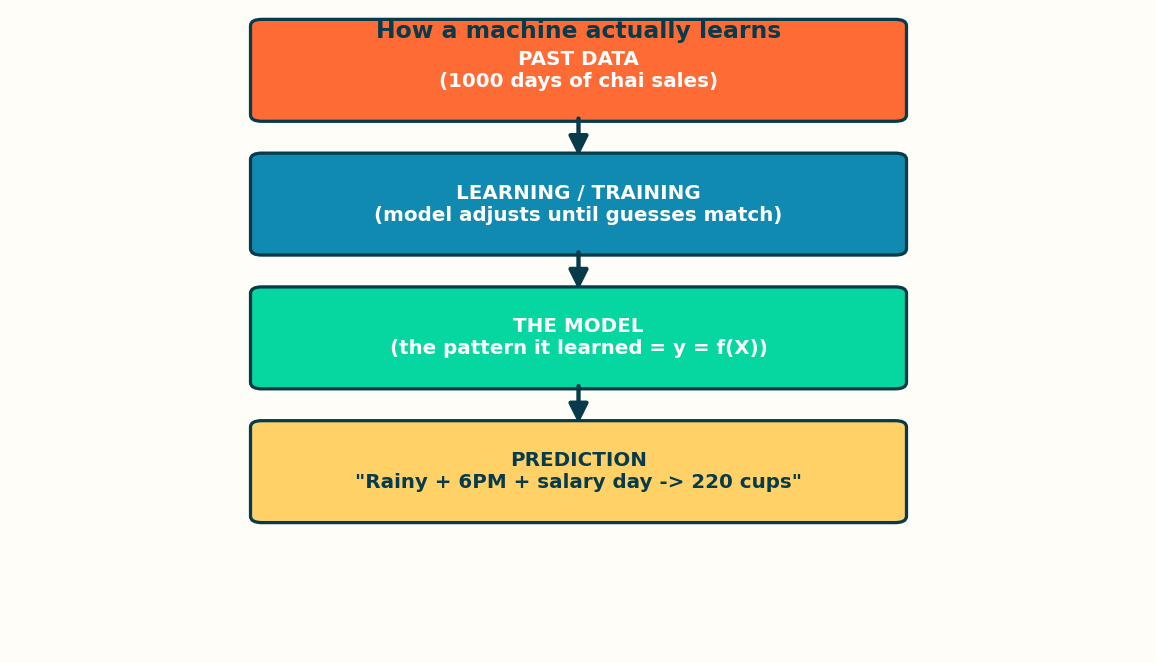
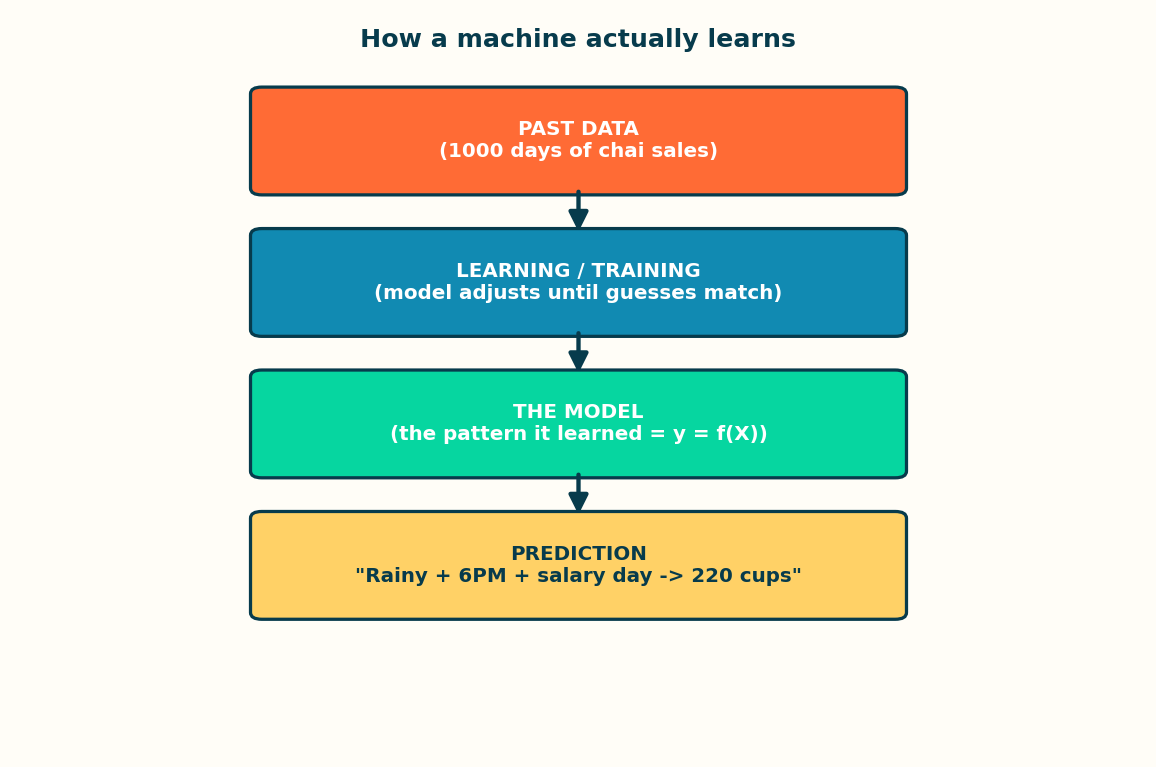
fix diagram alignment: no overlapping boxes, title spacing corrected

Changed region(s): [[0.1869, 0.0, 0.8097, 0.8145]]

diff --git a/images/_generate_day1_images.py b/images/_generate_day1_images.py
@@ -1,38 +1,51 @@
 import matplotlib
 matplotlib.use('Agg')
 import matplotlib.pyplot as plt
-import matplotlib.patches as mpatches
 from matplotlib.patches import FancyBboxPatch, FancyArrowPatch
 import numpy as np
 
-# engagement palette: warm saffron/teal, high contrast (tested well with Indian audiences)
 SAFFRON='#FF6B35'; TEAL='#118AB2'; GREEN='#06D6A0'; YELLOW='#FFD166'; DARK='#073B4C'; BG='#FFFDF7'
 
-# ---------- IMG 1: Traditional Programming vs Machine Learning ----------
-fig, ax = plt.subplots(figsize=(10,4.6)); ax.set_xlim(0,10); ax.set_ylim(0,5); ax.axis('off')
+# ---------- IMG 1: Traditional vs ML (FIXED spacing, no overlaps) ----------
+fig, ax = plt.subplots(figsize=(12,5)); ax.set_xlim(0,24); ax.set_ylim(0,10); ax.axis('off')
 fig.patch.set_facecolor(BG); ax.set_facecolor(BG)
-def box(x,y,w,h,txt,c,tc='white',fs=11):
-    ax.add_patch(FancyBboxPatch((x,y),w,h,boxstyle="round,pad=0.08",fc=c,ec=DARK,lw=1.6))
+def box(x,y,w,h,txt,c,tc='white',fs=12):
+    ax.add_patch(FancyBboxPatch((x,y),w,h,boxstyle="round,pad=0.05",fc=c,ec=DARK,lw=1.8))
     ax.text(x+w/2,y+h/2,txt,ha='center',va='center',color=tc,fontsize=fs,fontweight='bold')
 def arrow(x1,y1,x2,y2):
-    ax.add_patch(FancyArrowPatch((x1,y1),(x2,y2),arrowstyle='-|>',mutation_scale=20,lw=2.2,color=DARK))
-ax.text(2.5,4.7,'TRADITIONAL PROGRAMMING',ha='center',fontsize=12,fontweight='bold',color=SAFFRON)
-box(0.3,3.0,1.7,0.8,'Rules',SAFFRON); box(0.3,1.6,1.7,0.8,'Data',SAFFRON)
-box(2.7,2.3,1.6,0.9,'Computer',DARK); box(4.9,2.35,0.9,0.8,'Answers',GREEN,DARK)
-arrow(2.0,3.4,2.7,3.0); arrow(2.0,2.0,2.7,2.6); arrow(4.3,2.75,4.9,2.75)
-ax.text(7.5,4.7,'MACHINE LEARNING',ha='center',fontsize=12,fontweight='bold',color=TEAL)
-box(5.7,3.0,1.7,0.8,'Data',TEAL); box(5.7,1.6,1.7,0.8,'Answers',TEAL)
-box(8.1,2.3,1.5,0.9,'Computer',DARK); box(9.0,2.35,0.9,0.8,'RULES',YELLOW,DARK,10)
-# extend xlim
-ax.set_xlim(0,10.2)
-arrow(7.4,3.4,8.1,3.0); arrow(7.4,2.0,8.1,2.6); arrow(9.6,2.75,10.0,2.75)
-ax.text(2.5,0.7,'YOU write the rules',ha='center',fontsize=10,color=DARK,style='italic')
-ax.text(7.8,0.7,'The MACHINE writes the rules',ha='center',fontsize=10,color=DARK,style='italic')
+    ax.add_patch(FancyArrowPatch((x1,y1),(x2,y2),arrowstyle='-|>',mutation_scale=22,lw=2.4,color=DARK))
+
+# LEFT: Traditional  (x 0..11)
+ax.text(5.0,9.3,'TRADITIONAL PROGRAMMING',ha='center',fontsize=13,fontweight='bold',color=SAFFRON)
+box(0.3,6.0,2.6,1.4,'Rules',SAFFRON)
+box(0.3,3.2,2.6,1.4,'Data',SAFFRON)
+box(4.2,4.6,2.6,1.6,'Computer',DARK)
+box(8.0,4.9,2.4,1.1,'Answers',GREEN,DARK)
+arrow(2.9,6.7,4.2,5.9)     # rules -> computer
+arrow(2.9,3.9,4.2,5.0)     # data -> computer
+arrow(6.8,5.4,8.0,5.45)    # computer -> answers
+
+# RIGHT: ML  (x 13..24)
+ax.text(18.5,9.3,'MACHINE LEARNING',ha='center',fontsize=13,fontweight='bold',color=TEAL)
+box(13.2,6.0,2.6,1.4,'Data',TEAL)
+box(13.2,3.2,2.6,1.4,'Answers',TEAL)
+box(17.1,4.6,2.6,1.6,'Computer',DARK)
+box(20.9,4.9,2.4,1.1,'RULES',YELLOW,DARK)
+arrow(15.8,6.7,17.1,5.9)   # data -> computer
+arrow(15.8,3.9,17.1,5.0)   # answers -> computer
+arrow(19.7,5.4,20.9,5.45)  # computer -> rules
+
+# captions (well below boxes)
+ax.text(5.0,1.6,'YOU write the rules',ha='center',fontsize=11,color=DARK,style='italic')
+ax.text(18.5,1.6,'The MACHINE writes the rules',ha='center',fontsize=11,color=DARK,style='italic')
+# subtle divider
+ax.plot([12,12],[2.5,8.5],color='#ddd',lw=1.5,ls='--')
 plt.tight_layout(); plt.savefig('images/01-traditional-vs-ml.png',dpi=130,facecolor=BG,bbox_inches='tight'); plt.close()
 
-# ---------- IMG 2: How learning happens (flow) ----------
-fig, ax = plt.subplots(figsize=(9,5.2)); ax.set_xlim(0,10); ax.set_ylim(0,10); ax.axis('off')
+# ---------- IMG 2: How learning happens (FIXED title above boxes) ----------
+fig, ax = plt.subplots(figsize=(9,6)); ax.set_xlim(0,10); ax.set_ylim(0,11); ax.axis('off')
 fig.patch.set_facecolor(BG)
+ax.text(5,10.5,'How a machine actually learns',ha='center',fontsize=14,fontweight='bold',color=DARK)
 steps=[('PAST DATA\n(1000 days of chai sales)',SAFFRON,8.4),
        ('LEARNING / TRAINING\n(model adjusts until guesses match)',TEAL,6.3),
        ('THE MODEL\n(the pattern it learned = y = f(X))',GREEN,4.2),
@@ -43,22 +56,6 @@ for txt,c,y in steps:
     ax.text(5.0,y+0.7,txt,ha='center',va='center',color=tc,fontsize=11,fontweight='bold')
 for y in [8.4,6.3,4.2]:
     ax.add_patch(FancyArrowPatch((5.0,y),(5.0,y-0.7),arrowstyle='-|>',mutation_scale=22,lw=2.4,color=DARK))
-ax.text(5,9.6,'How a machine actually learns',ha='center',fontsize=13,fontweight='bold',color=DARK)
 plt.tight_layout(); plt.savefig('images/02-how-learning-happens.png',dpi=130,facecolor=BG,bbox_inches='tight'); plt.close()
 
-# ---------- IMG 3: Chai regression (temperature vs cups) ----------
-fig, ax = plt.subplots(figsize=(8,5))
-fig.patch.set_facecolor(BG); ax.set_facecolor('white')
-temp=np.array([15,20,25,30,35]); cups=np.array([200,170,140,110,80])
-ax.scatter(temp,cups,s=180,color=SAFFRON,edgecolor=DARK,zorder=3,label='Past days (data)')
-m,b=np.polyfit(temp,cups,1); xs=np.linspace(13,37,50)
-ax.plot(xs,m*xs+b,color=TEAL,lw=3,zorder=2,label='What the model learned (the line)')
-ax.scatter([18],[m*18+b],s=260,color=GREEN,edgecolor=DARK,marker='*',zorder=4,label='NEW day: 18°C -> ~182 cups')
-ax.annotate('predict!',(18,m*18+b),textcoords="offset points",xytext=(15,25),fontsize=11,fontweight='bold',color=GREEN)
-ax.set_xlabel('Temperature (°C)',fontsize=12,fontweight='bold',color=DARK)
-ax.set_ylabel('Cups of chai sold',fontsize=12,fontweight='bold',color=DARK)
-ax.set_title("Ramesh's chai: colder day → more chai (a real model)",fontsize=12,fontweight='bold',color=DARK)
-ax.legend(fontsize=9,loc='upper right'); ax.grid(alpha=0.25)
-plt.tight_layout(); plt.savefig('images/03-chai-regression.png',dpi=130,facecolor=BG,bbox_inches='tight'); plt.close()
-
-print("generated 3 images")
+print("regenerated images 1 and 2 (fixed)")